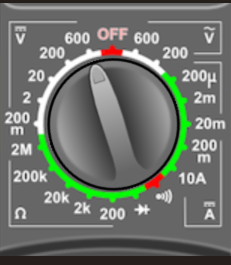
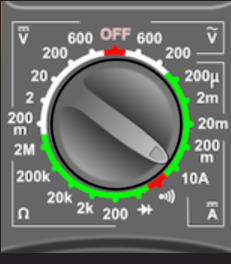
ménage

diff --git a/circuit_libre.py b/circuit_libre.py
@@ -141,14 +141,6 @@ class Fil:
         self._lignes = lignes
 
     @property
-    def composantes(self):
-        return self._composantes
-
-    @composantes.setter
-    def composantes(self, composantes):
-        self._composantes = composantes
-
-    @property
     def tension(self):
         return self._tension
 
@@ -359,7 +351,6 @@ class Circuit(QGraphicsScene):
         self.zones_surbrillance = []
         self.zones_blanches = []
         self.grid_par_dessus = []
-        self.composantes = []
         self.infos_composantes = InfosComposantes()
 
         # Menubar
@@ -675,16 +666,7 @@ class Circuit(QGraphicsScene):
                 # TODO : mettre à jour la vérification de collisions pour fils après qu'un ait été retiré
             else:
                 # enlever la dernière composante du dessin (donc les 3 dernières infos ajoutées)
-                longueur = len(self.composantes)
-                # on retire tout ce qui est lié à ce qui est enlevé de self.composantes
-                position = self.composantes.pop()
-                image_composante_supprimee = self.composantes.pop()
-                self.composantes.pop()
-
-                # on retire de la scène l'image de la composante, son carré blanc et son grid par dessus
-                self.removeItem(image_composante_supprimee)
-                self.retirer_carre_blanc(position)
-                self.supprimer_lignes_supplementaires(position)
+                pass
 
             self.ajouts.pop()
 
@@ -699,13 +681,6 @@ class Circuit(QGraphicsScene):
                 position = self.composantes_jetes.pop()
                 image = self.composantes_jetes.pop()
                 composante = self.composantes_jetes.pop()
-
-                apres = self.composantes[index*3:]
-                self.composantes = self.composantes[:index*3]
-                self.composantes.append(composante)
-                self.composantes.append(image)
-                self.composantes.append(position)
-                self.composantes.extend(apres)
 
                 # on réajoute au fil la composante "réapparue"
                 # fil = self.verifier_collision_fil(position)
@@ -768,47 +743,16 @@ class Circuit(QGraphicsScene):
                 self.tourner_image_operation(dernier_element[1])
 
             elif operation == "Batterie":
-                    index = dernier_element[1]
-                    volt_avant = dernier_element[2]
-                    element = self.composantes[index-2]
-                    element = element[0:2]
-                    element.append(volt_avant)
-                    apres = self.composantes[index - 1:]
-                    self.composantes = self.composantes[0:index - 2]
-                    self.composantes.append(element)
-                    self.composantes.extend(apres)
+                   #TODO: remttre voltage batterie précédent
+                   pass
 
             elif operation == "Résistor":
-                    index = dernier_element[1]
-                    volt_avant = dernier_element[2]
-                    element = self.composantes[index - 2]
-                    element = element[0:2]
-                    element.append(volt_avant)
-                    apres = self.composantes[index - 1:]
-                    self.composantes = self.composantes[0:index - 2]
-                    self.composantes.append(element)
-                    self.composantes.extend(apres)
+                    #Todo: remettre dernière résistance
+                    pass
 
             elif operation == "Interrupteur":
-                index = dernier_element[2]
-                ancienne_image = self.composantes[index - 1]
-                element = self.composantes[index - 2]
-                self.removeItem(ancienne_image)
-
-                if dernier_element[1] == "ouvert":
-                    # on met l'image de l'interrupteur fermé
-                    nouvelle_image = QPixmap("images/circuit/interrupteur_ferme.png")
-                    # on modifie les données
-                    element = element[0:2]
-                    element.append("fermé")
-                else:
-                    # on met l'image de l'interrupteur ouvert
-                    nouvelle_image = QPixmap("images/circuit/interrupteur_ouvert.png")
-                    # on modifie les données
-                    element = element[0:2]
-                    element.append("ouvert")
-
-                self.ouvrir_ferme_interrupteur(nouvelle_image, ancienne_image, element, index)
+                #Todo: ouvrir ou fermer interrupteur
+                pass
 
         self.operations.pop()
         self.rollback_possible()
@@ -1383,19 +1327,18 @@ class Circuit(QGraphicsScene):
     def poubelle_click(self):
         self.selection = "poubelle"
 
-        emplacements_composantes = self.composantes[2::3]
-        # on indique "l'aire" de chaques composantes
-        for emplacement in emplacements_composantes:
-            # on doit passer du point central au coin supérieur gauche
-            coin_sup_gauche_x = emplacement.x() - self.taille_grid
-            coin_sup_gauche_y = emplacement.y() - self.taille_grid
-            zone_surbrillance = QGraphicsRectItem(coin_sup_gauche_x, coin_sup_gauche_y, self.taille_grid * 2,
+        # TODO: faire en sorte que composante devant souris devienne rouge
+        pass
+        """# on doit passer du point central au coin supérieur gauche
+        coin_sup_gauche_x = emplacement.x() - self.taille_grid
+        coin_sup_gauche_y = emplacement.y() - self.taille_grid
+        zone_surbrillance = QGraphicsRectItem(coin_sup_gauche_x, coin_sup_gauche_y, self.taille_grid * 2,
                                                   self.taille_grid * 2)
-            zone_surbrillance.setOpacity(0.3)
-            zone_surbrillance.setZValue(2)
-            zone_surbrillance.setBrush(QColor(218, 44, 44))
-            self.addItem(zone_surbrillance)
-            self.zones_surbrillance.append(zone_surbrillance)
+        zone_surbrillance.setOpacity(0.3)
+        zone_surbrillance.setZValue(2)
+        zone_surbrillance.setBrush(QColor(218, 44, 44))
+        self.addItem(zone_surbrillance)"""
+
 
     def composante_toolbar_clicked(self, composante):
 
@@ -1484,13 +1427,6 @@ class Circuit(QGraphicsScene):
 
             fil.ajouter_composante(composante)
 
-            # on ajoute les infos de la composante, son image sur la scène et sa position à self.composantes
-            """
-            infos = self.infos_composantes.liste_a_ajouter(composante)
-            self.composantes.append(infos)
-            self.composantes.append(self.image_composante)
-            self.composantes.append(point_milieu)
-            """
             # on reset les variables liées à l'ajout de composantes
             self.accepter_modification = False
             self.image_composante = None